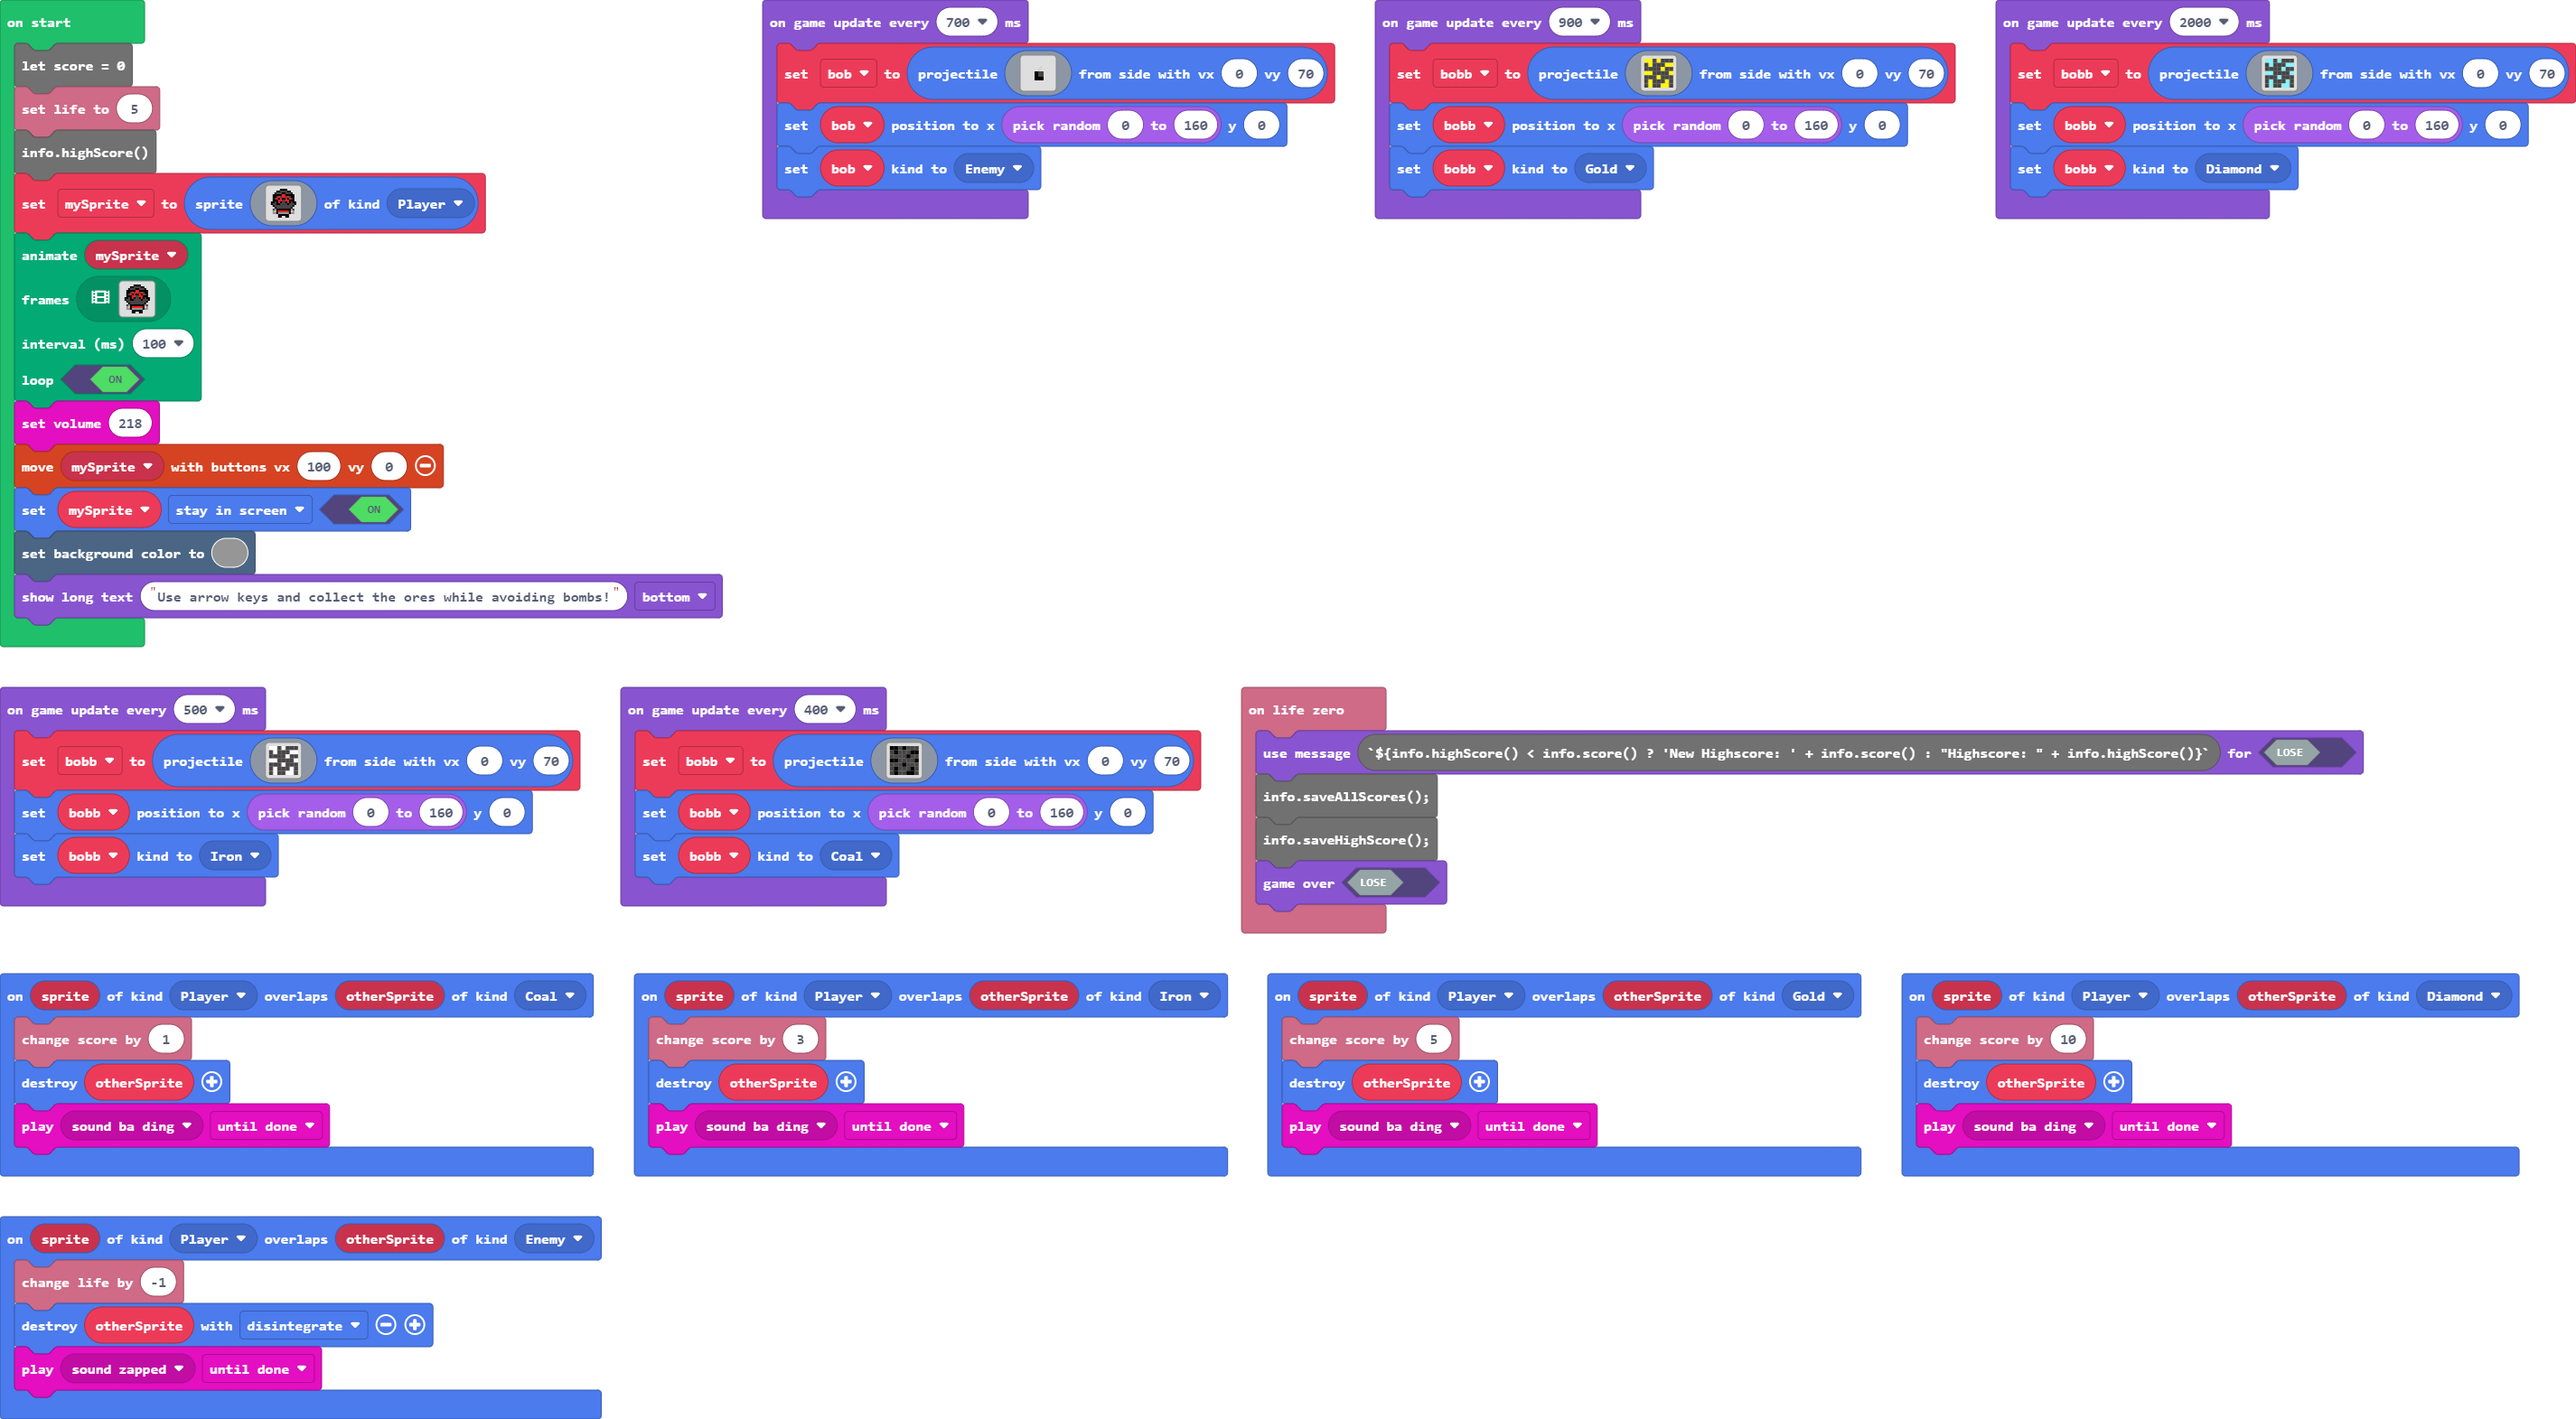
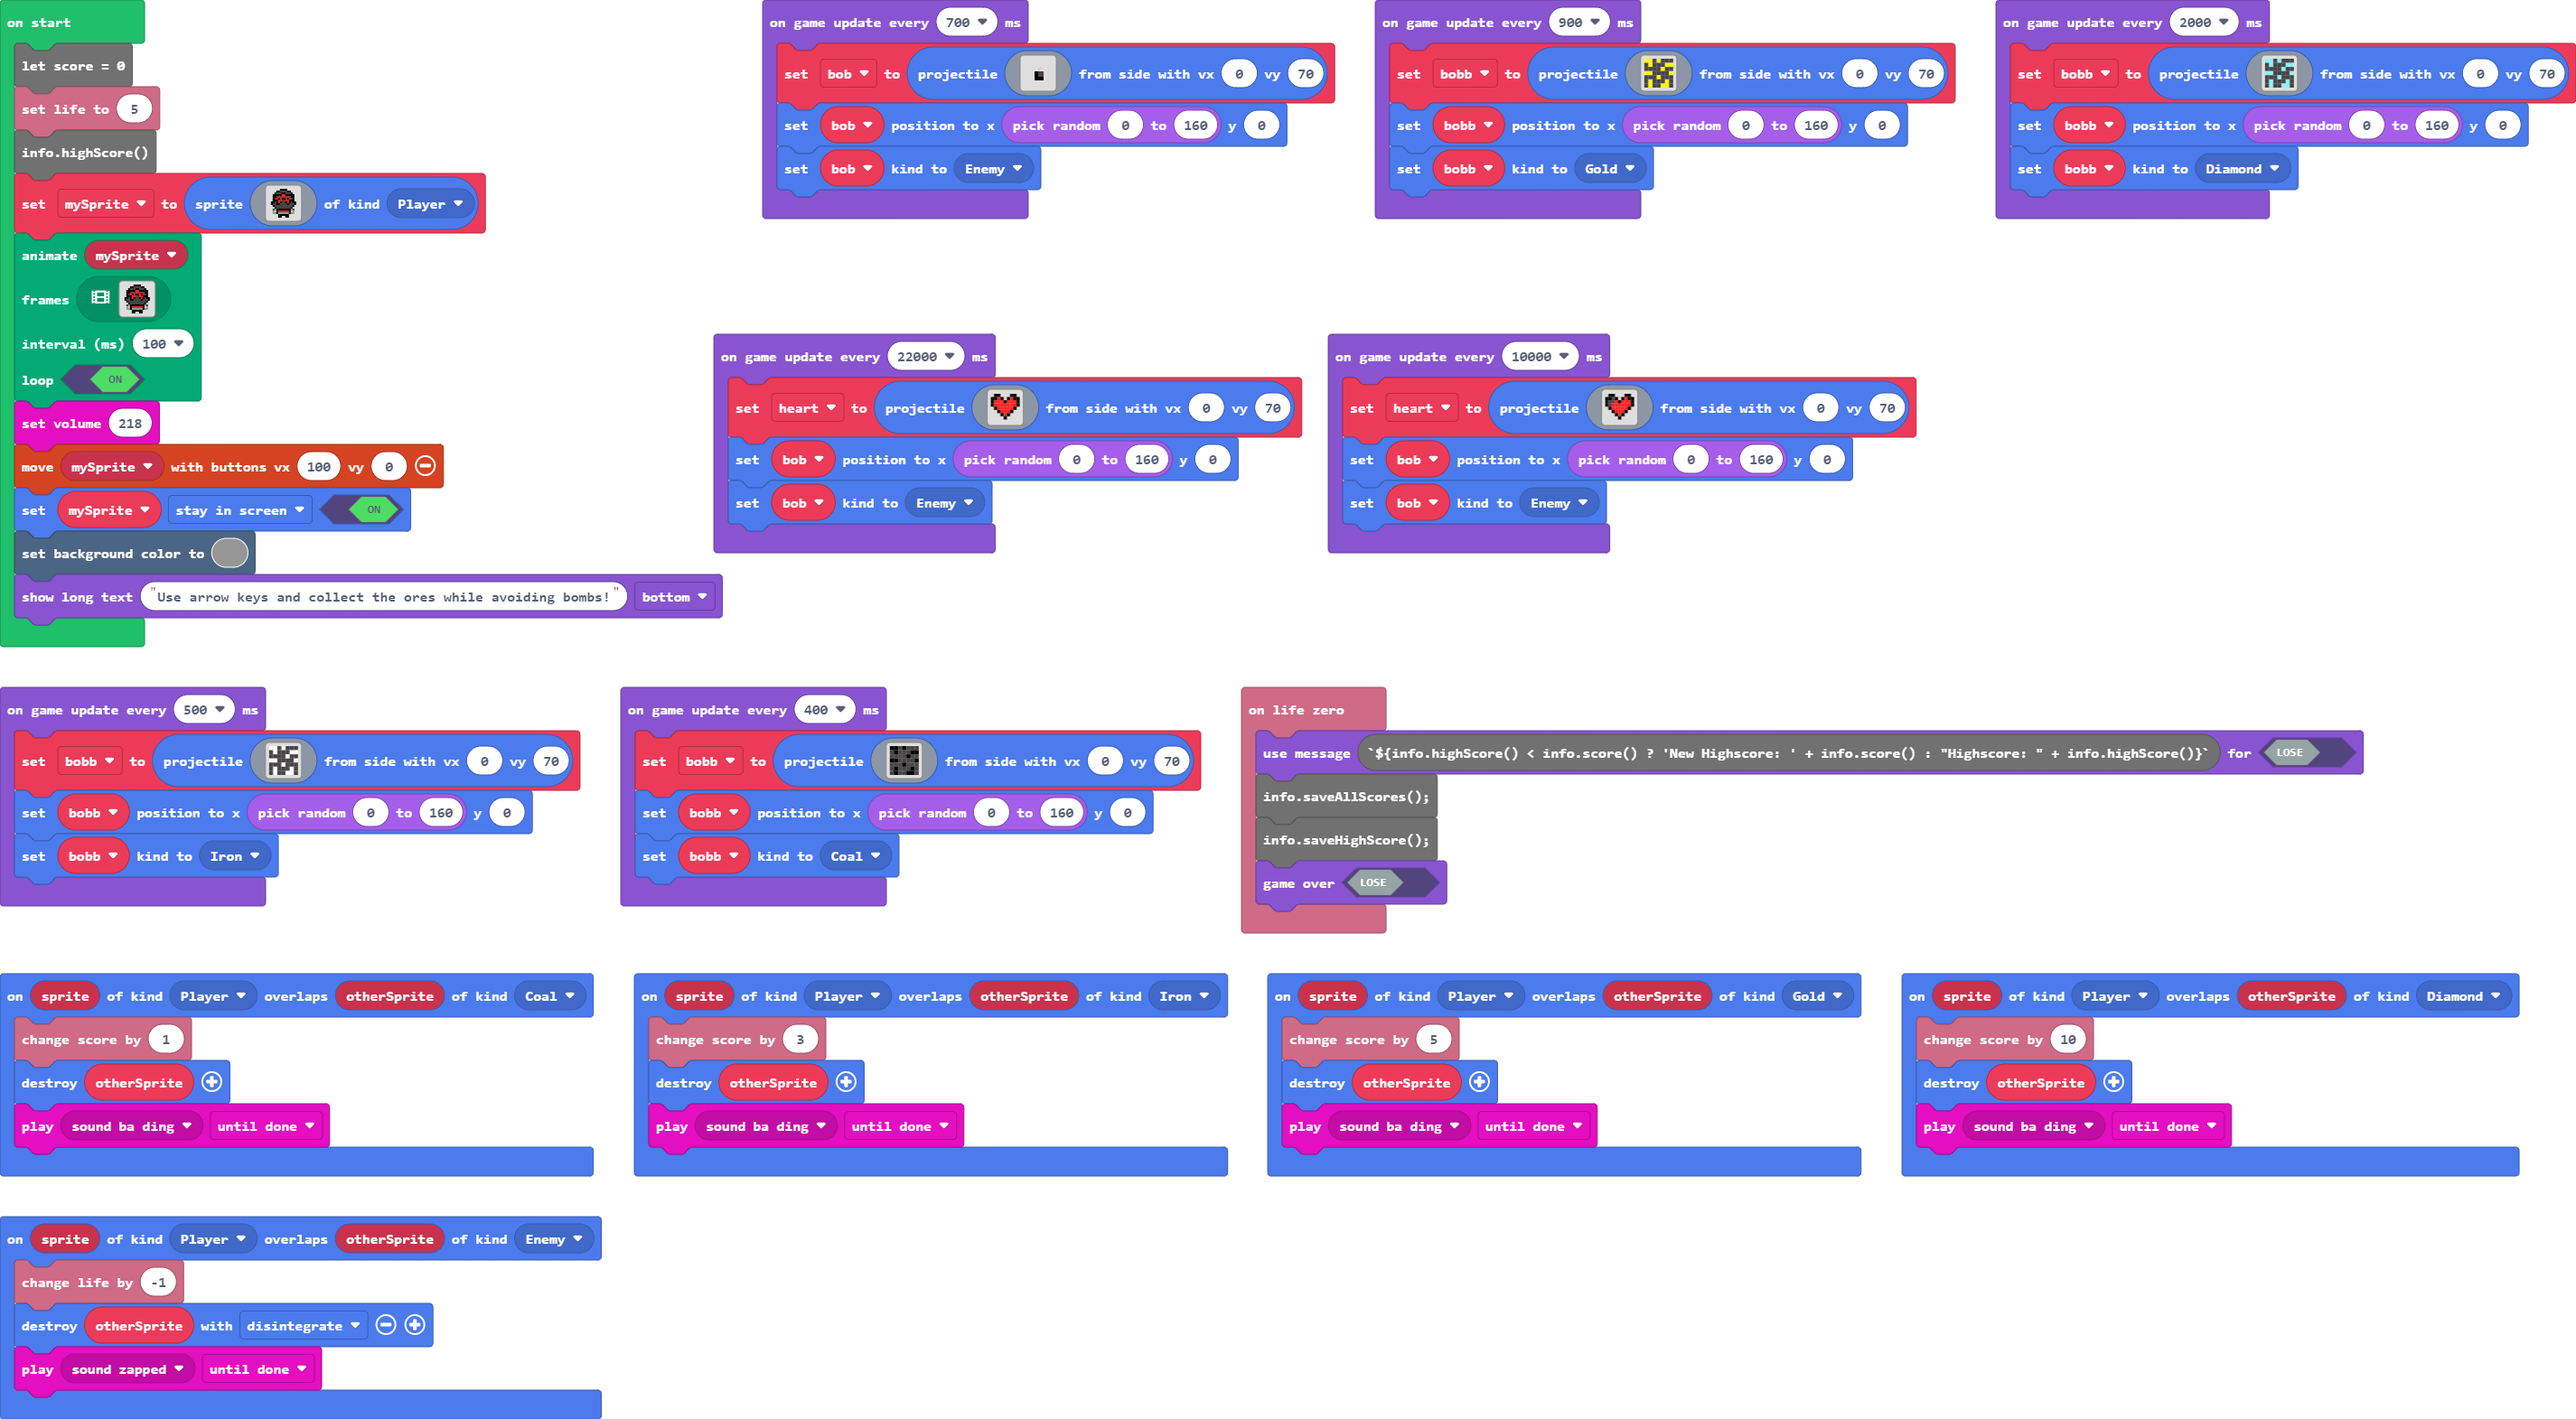
Update main.blocks, main.ts

Changed region(s): [[0.2497, 0.2183, 0.7492, 0.4055]]

diff --git a/main.ts b/main.ts
@@ -35,6 +35,7 @@ sprites.onOverlap(SpriteKind.Player, SpriteKind.Enemy, function (sprite, otherSp
     otherSprite.destroy(effects.disintegrate)
     music.play(music.melodyPlayable(music.zapped), music.PlaybackMode.UntilDone)
 })
+let heart: Sprite = null
 let bobb: Sprite = null
 let bob: Sprite = null
 let score = 0
@@ -210,4 +211,32 @@ game.onUpdateInterval(500, function () {
         `, 0, 70)
     bobb.setPosition(Math.randomRange(0, 160), 0)
     bobb.setKind(SpriteKind.Iron)
+})
+game.onUpdateInterval(22000, function () {
+    heart = sprites.createProjectileFromSide(img`
+        . f f . . . f f . 
+        f f 2 f . f 2 f f 
+        f 2 2 2 f 2 2 2 f 
+        f 2 2 2 2 2 2 2 f 
+        . f 2 2 2 2 2 f . 
+        . . f 2 2 2 f . . 
+        . . . f 2 f . . . 
+        . . . . f . . . . 
+        `, 0, 70)
+    bob.setPosition(Math.randomRange(0, 160), 0)
+    bob.setKind(SpriteKind.Enemy)
+})
+game.onUpdateInterval(10000, function () {
+    heart = sprites.createProjectileFromSide(img`
+        . f f . . . f f . 
+        f f e f . f 2 f f 
+        f e e 2 f 2 2 2 f 
+        f e 2 2 2 2 2 2 f 
+        . f 2 2 2 2 2 f . 
+        . . f 2 2 2 f . . 
+        . . . f 2 f . . . 
+        . . . . f . . . . 
+        `, 0, 70)
+    bob.setPosition(Math.randomRange(0, 160), 0)
+    bob.setKind(SpriteKind.Enemy)
 })
